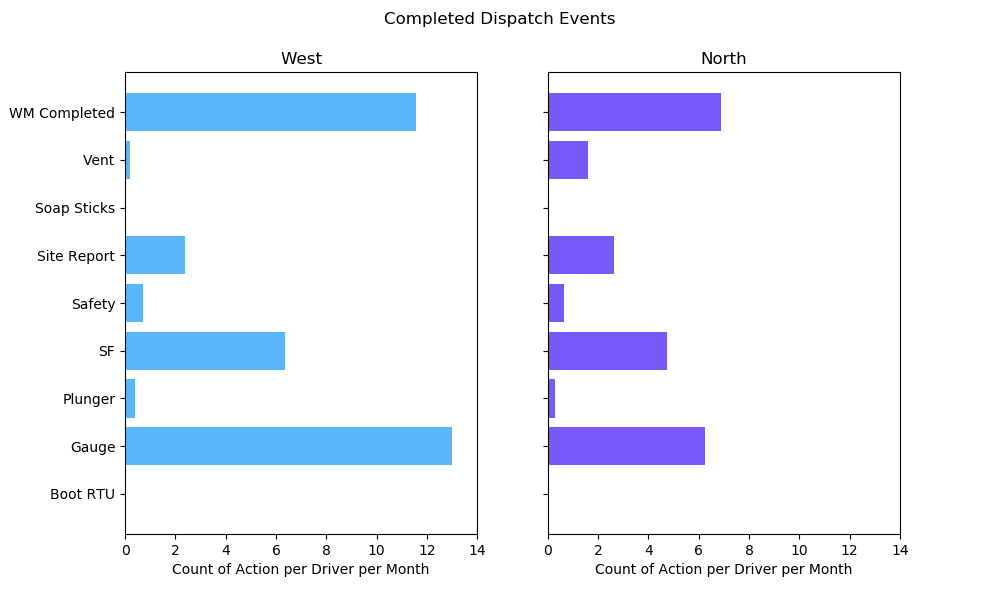
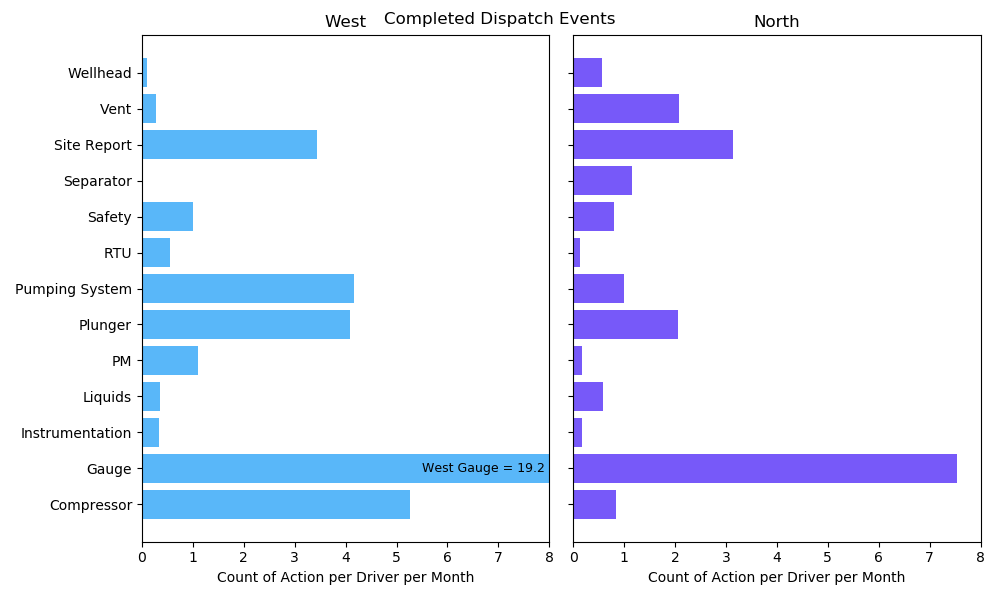
dispatch to match

diff --git a/dispatch.py b/dispatch.py
@@ -31,6 +31,8 @@ def dispatch_pull():
 				,F.BusinessUnit
 				,D.Job_Rank
 				,ALH.[Action Type - No count]
+				,ALH.[Action Type 1]
+				,ALH.[CommentAction]
 		  FROM (SELECT	FacilityKey
 						,D.LocationID
 						,CalcDate
@@ -106,22 +108,71 @@ def missed_dispatch(df):
 		bu_df = df.loc[(df['BusinessUnit'] == bu) &
 					   (df['Action Type - No count'] != 'cIBatches') &
 					   (df['Action Type - No count'] != 'extBuildUp'), :]
-		bu_df.loc[bu_df['Action Type - No count'] == 'Safety 3.0',
-				  'Action Type - No count'] = 'Safety'
-		bu_df.loc[(bu_df['Action Type - No count'] =='Plgr. Insp.') |
-				  (bu_df['Action Type - No count'] =='Plgr. Change'),
-				  'Action Type - No count'] = 'Plunger'
-		bu_df.loc[bu_df['Action Type - No count'] == 'soapSticks',
-				  'Action Type - No count'] = 'Soap Sticks'
-		bu_df.loc[bu_df['Action Type - No count'] == 'warmBootRTU',
-				  'Action Type - No count'] = 'Boot RTU'
+		bu_df.loc[(bu_df['Action Type - No count'] == 'Safety 2.0') |
+			   (bu_df['Action Type - No count'] == 'Safety 3.0'),
+			   'Action Type - No count'] = 'Safety'
+		bu_df.loc[(bu_df['Action Type - No count'] == 'Plgr. Change') |
+			   (bu_df['Action Type - No count'] == 'Plgr. Insp.') |
+			   (bu_df['Action Type - No count'] == 'Plgr. Incomplete'),
+			   'Action Type - No count'] = 'Plunger'
+		bu_df.loc[bu_df['Action Type 1'] == 'Compressor - Gas Lift',
+			   'Action Type - No count'] = 'Compressor'
+		bu_df.loc[(bu_df['Action Type 1'] == 'Gas Scrubber') |
+			   (bu_df['Action Type 1'] == 'Gas Scrubber Separator') |
+		  	   (bu_df['Action Type 1'] == 'Sand Separator') |
+			   (bu_df['Action Type 1'] == 'Dehy') |
+			   (bu_df['Action Type 1'] == 'Fuel Gas/Start Gas') |
+		  	   (bu_df['Action Type 1'] == 'Heat Medium') |
+		  	   (bu_df['Action Type 1'] == 'Heater Treater') |
+		  	   (bu_df['Action Type 1'] == 'Instrument Air') |
+		  	   (bu_df['Action Type 1'] == 'Sales Valve') |
+		  	   (bu_df['Action Type 1'] == 'Sales Valve (PV)') |
+		  	   (bu_df['Action Type 1'] == 'Amine') |
+		  	   (bu_df['Action Type 1'] == 'Separator Inlet Valve (XV)'),
+		  	   'Action Type - No count'] = 'Separator'
+		bu_df.loc[(bu_df['Action Type 1'] == 'Tanks') |
+			   (bu_df['Action Type 1'] == 'Tanks/Pits') |
+			   (bu_df['Action Type 1'] == 'Water Transfer'),
+		       'Action Type - No count'] = 'Liquids'
+		bu_df.loc[(bu_df['Action Type 1'] == 'Pumping Unit') |
+			   (bu_df['Action Type 1'] == 'Recirc Pump'),
+			   'Action Type - No count'] = 'Pumping System'
+		bu_df.loc[bu_df['Action Type 1'] == 'Instrumentation',
+			   'Action Type - No count'] = 'Instrumentation'
+		bu_df.loc[bu_df['Action Type 1'] == 'Wellhead',
+			   'Action Type - No count'] = 'Wellhead'
+		bu_df.loc[(bu_df['Action Type - No count'] == 'WM Completed') &
+			   (bu_df['CommentAction'].str.contains('rtu')),
+			   'Action Type - No count'] = 'RTU'
+		bu_df.loc[(bu_df['Action Type - No count'] == 'WM Completed') &
+			   (bu_df['CommentAction'].str.contains('pump')),
+			   'Action Type - No count'] = 'Pumping System'
+		bu_df.loc[(bu_df['Action Type - No count'] == 'WM Completed') &
+			   (bu_df['CommentAction'].str.contains('pm')),
+			   'Action Type - No count'] = 'PM'
+		bu_df.loc[(bu_df['Action Type - No count'] == 'WM Completed') &
+			   (bu_df['CommentAction'].str.contains('plunger')),
+			   'Action Type - No count'] = 'Plunger'
+		bu_df.loc[(bu_df['Action Type - No count'] == 'WM Completed') &
+			   (bu_df['CommentAction'].str.contains('comp')),
+			   'Action Type - No count'] = 'Compressor'
 
-		dispatch_df = bu_df.loc[bu_df['id'].notnull(), :]\
+		df_short = bu_df.loc[(bu_df['Action Type - No count'] != 'Troubleshoot Charg. Sys.') &
+						  (bu_df['Action Type - No count'] != 'cIBatches') &
+						  (bu_df['Action Type - No count'] != 'documentSurfaceEquipment') &
+						  (bu_df['Action Type - No count'] != 'extBuildUp') &
+						  (bu_df['Action Type - No count'] != 'fluidShot') &
+						  (bu_df['Action Type - No count'] != 'pressureCheck') &
+						  (bu_df['Action Type - No count'] != 'snowRemoval') &
+						  (bu_df['Action Type - No count'] != 'soapSticks') &
+						  (bu_df['Action Type - No count'] != 'SF') &
+						  (bu_df['Action Type - No count'] != 'WM Completed') &
+						  (bu_df['Action Type - No count'] != 'rodPumpSpeedChange') &
+						  (bu_df['Action Type - No count'] != 'warmBootRTU'), :]
+
+		dispatch_df = df_short.loc[df_short['id'].notnull(), :]\
 					  .groupby(['BusinessUnit', 'Action Type - No count'],
 								as_index=False).count()
-		if 'Soap Sticks' not in dispatch_df['Action Type - No count'].unique():
-			dispatch_df = dispatch_df.append(pd.DataFrame([[bu, 'Soap Sticks', 0, 0]],
-											 columns=dispatch_df.columns))
 
 		dispatch_df.sort_values('Action Type - No count', inplace=True)
 
@@ -130,12 +181,14 @@ def missed_dispatch(df):
 				color=colors[bu.lower()])
 		ax.set_xlabel('Count of Action per Driver per Month')
 		ax.set_title(bu)
-		ax.set_xlim(0, 14)
+		ax.set_xlim(0, 8)
 
+	ax1.text(5.5, .9, 'West Gauge = 19.2', fontsize=9)
 	ax1.set_yticks(np.arange(len(dispatch_df['Action Type - No count'].unique())))
 	ax1.set_yticklabels(sorted(list(dispatch_df['Action Type - No count'].unique())))
 
 	plt.suptitle('Completed Dispatch Events'.format(bu))
+	plt.tight_layout()
 	plt.savefig('figures/dispatch_complete.png'.format(bu.lower()))
 
 def dispatch_deferment(df):
@@ -245,7 +298,8 @@ if __name__ == '__main__':
 	hour_dis_df = df.merge(hour_df, on='id')
 
 	missed_dispatch(df[['BusinessUnit', 'PriorityLevel',
-						'id', 'Action Type - No count']])
+						'id', 'Action Type - No count',
+						'Action Type 1', 'CommentAction']])
 
 	# dispatch_rate(df[['BusinessUnit', 'CalcDate',
 	# 				  'Job_Rank', 'Action Type - No count']])
